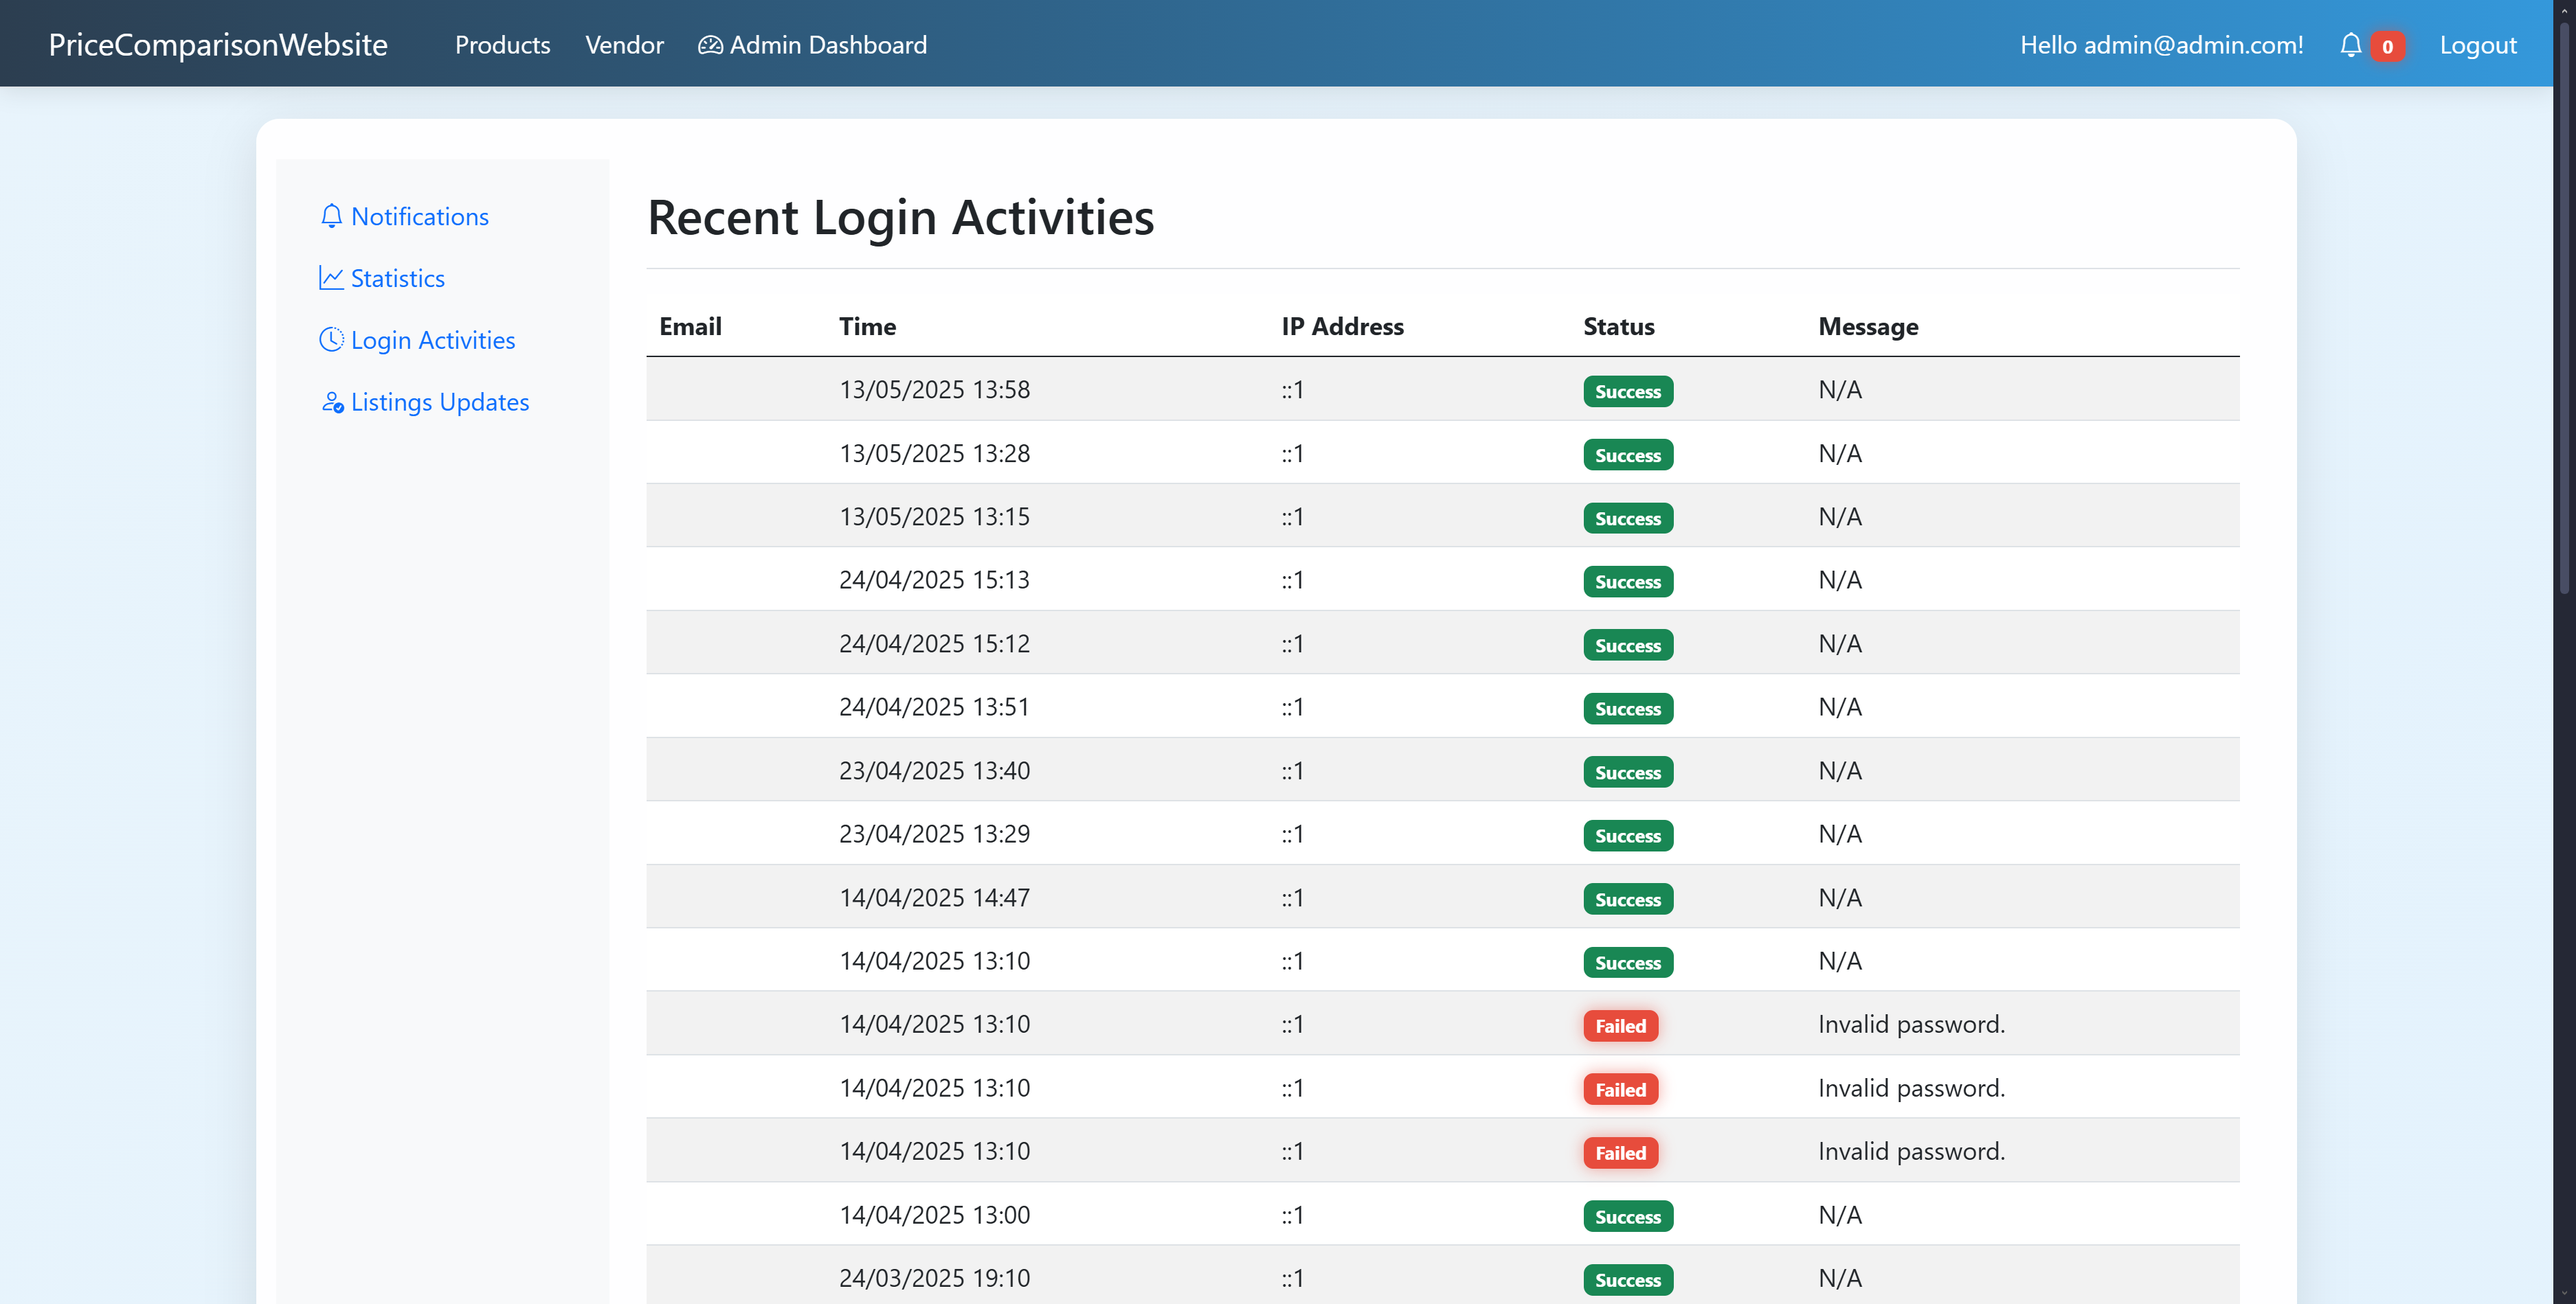
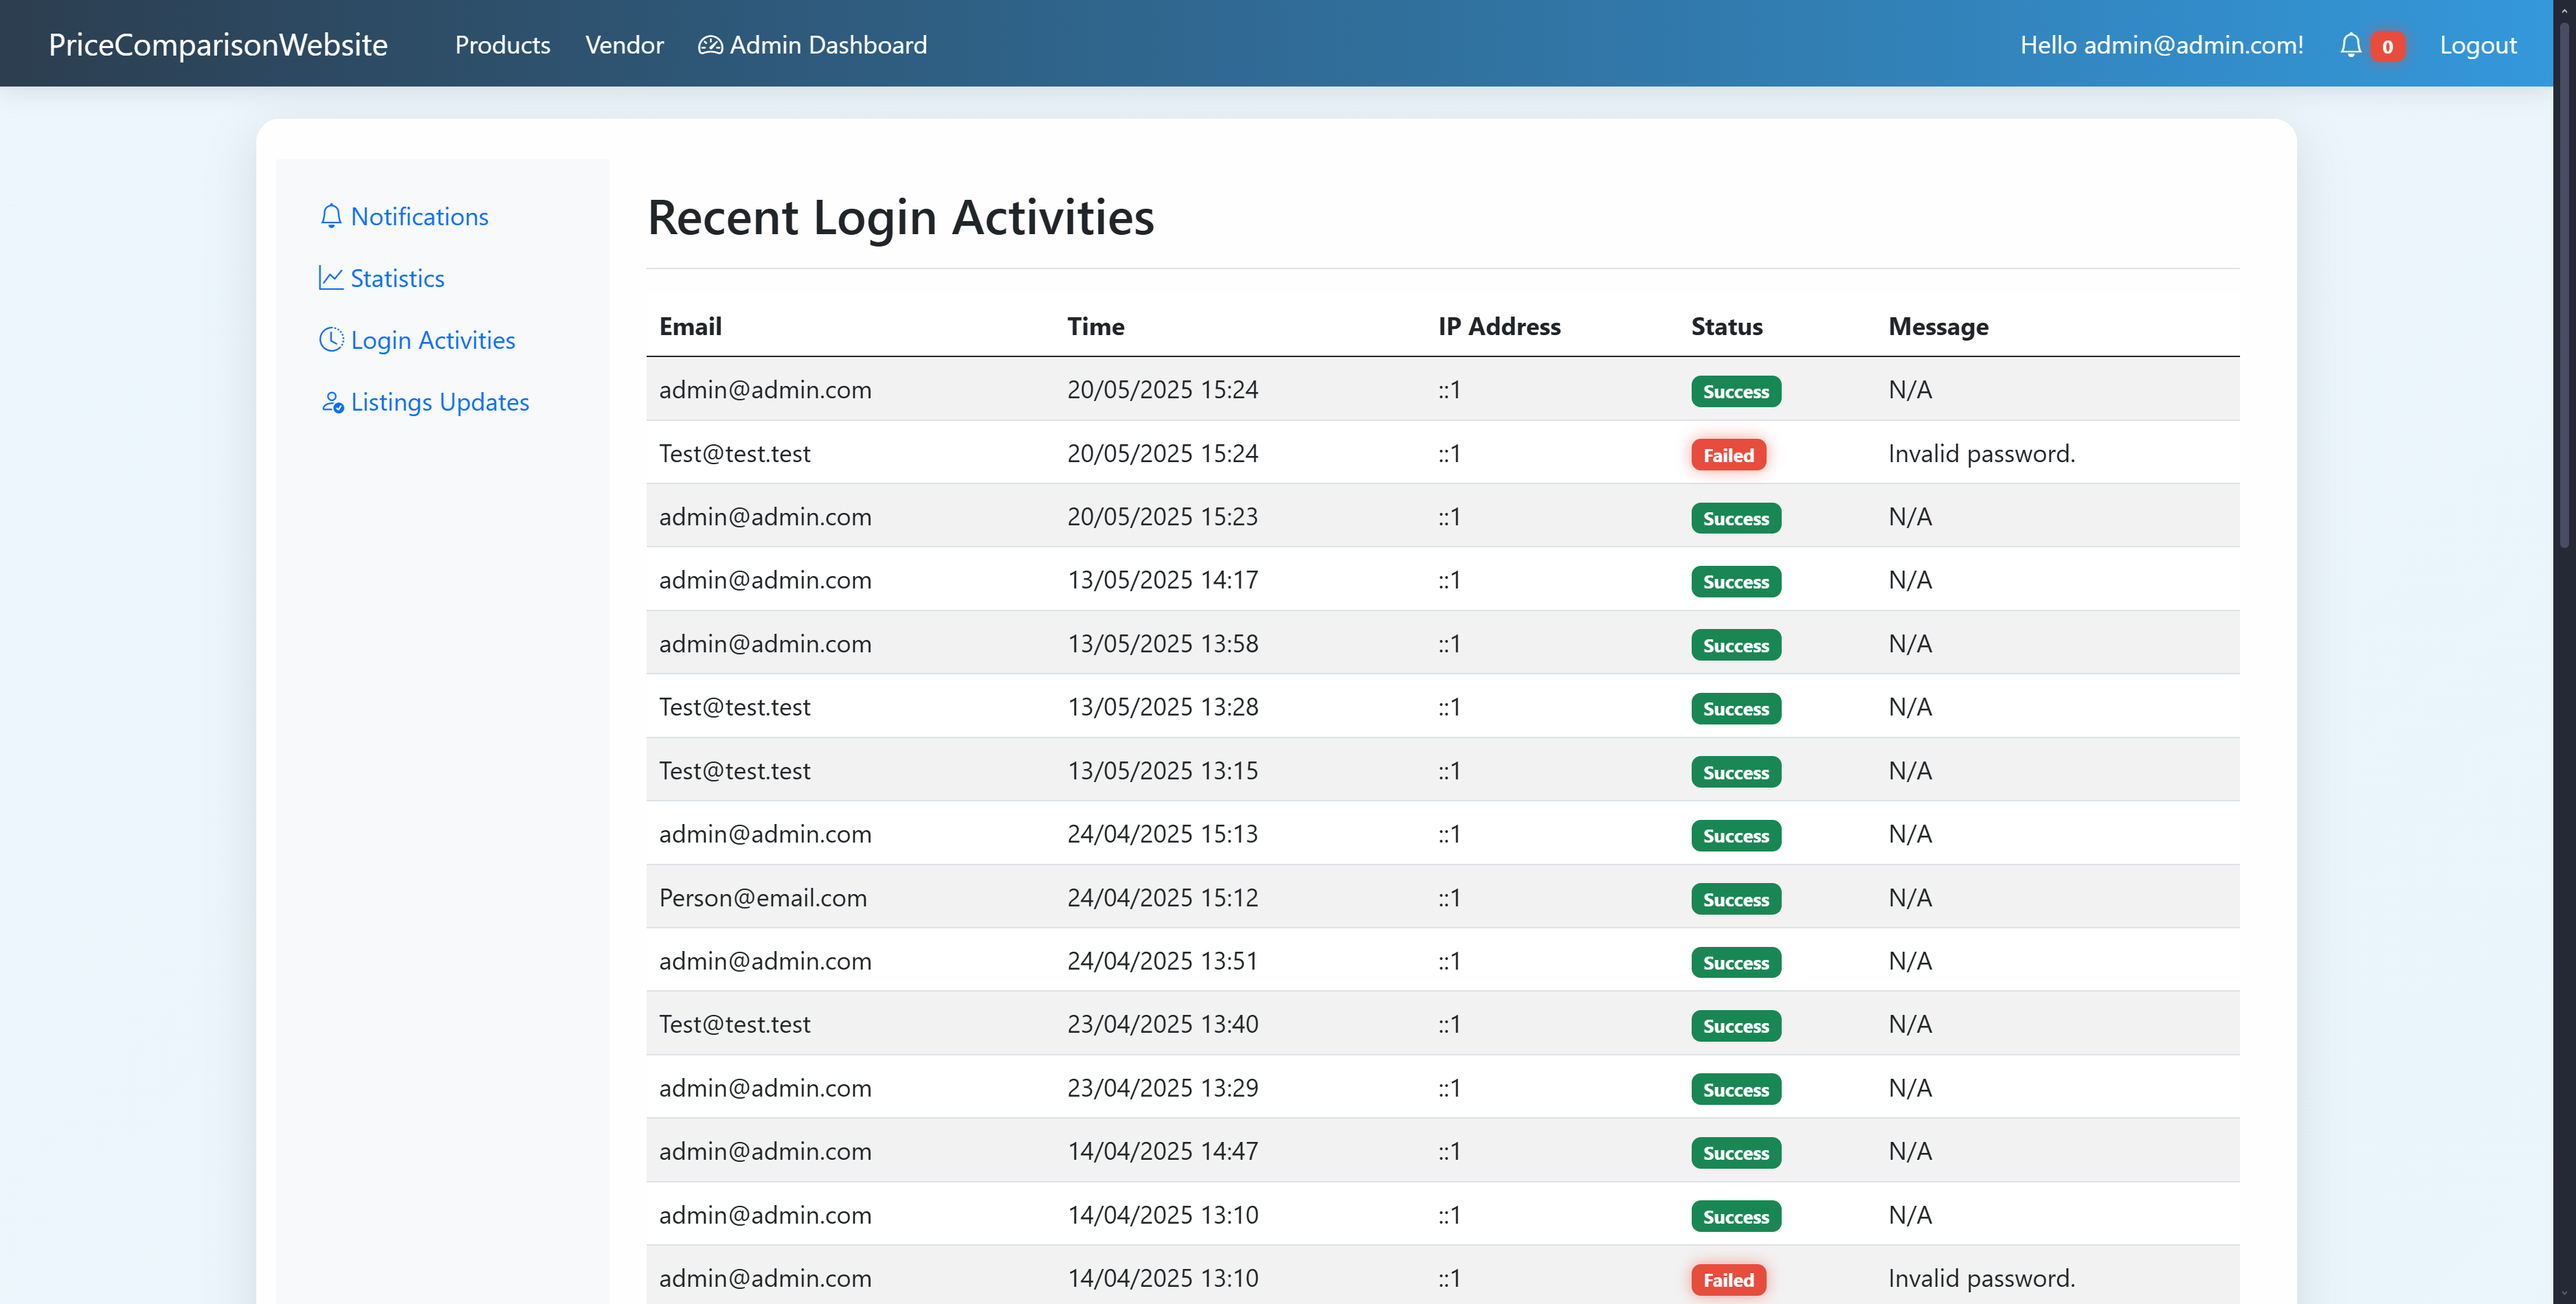
Fixed the login activity page to show the emails assosciated with sucessful/unsucessful login attempts

diff --git a/PriceComparisonWebsite/Services/Core/LoginActivityService.cs b/PriceComparisonWebsite/Services/Core/LoginActivityService.cs
@@ -65,7 +65,11 @@ namespace PriceComparisonWebsite.Services
         {
             try
             {
-                var activities = await _loginActivities.GetAllAsync();
+                var activities = await _loginActivities.GetAllAsync(new QueryOptions<LoginActivity>
+                    {
+                        Includes = "User"
+                    }
+                );
 
                 return activities.OrderByDescending(l => l.LoginTime).Take(n);  // Sort by most recent first
             }

diff --git a/README.md b/README.md
@@ -461,7 +461,7 @@ Note: In VSCode I would just use the run web app launch configuration for ease o
 
    ![Admin panel login activities](docs/screenshots/AdminDashboardLoginActivities.png)
    
-   The most recent login activites, (needs to be updated to show email addresses)
+   The most recent login activites for potential future monitoring purposes
 
    ![Admin panel Pre Auto updates](docs/screenshots/AdminDashboardPreAutoUpdate.png)
 
